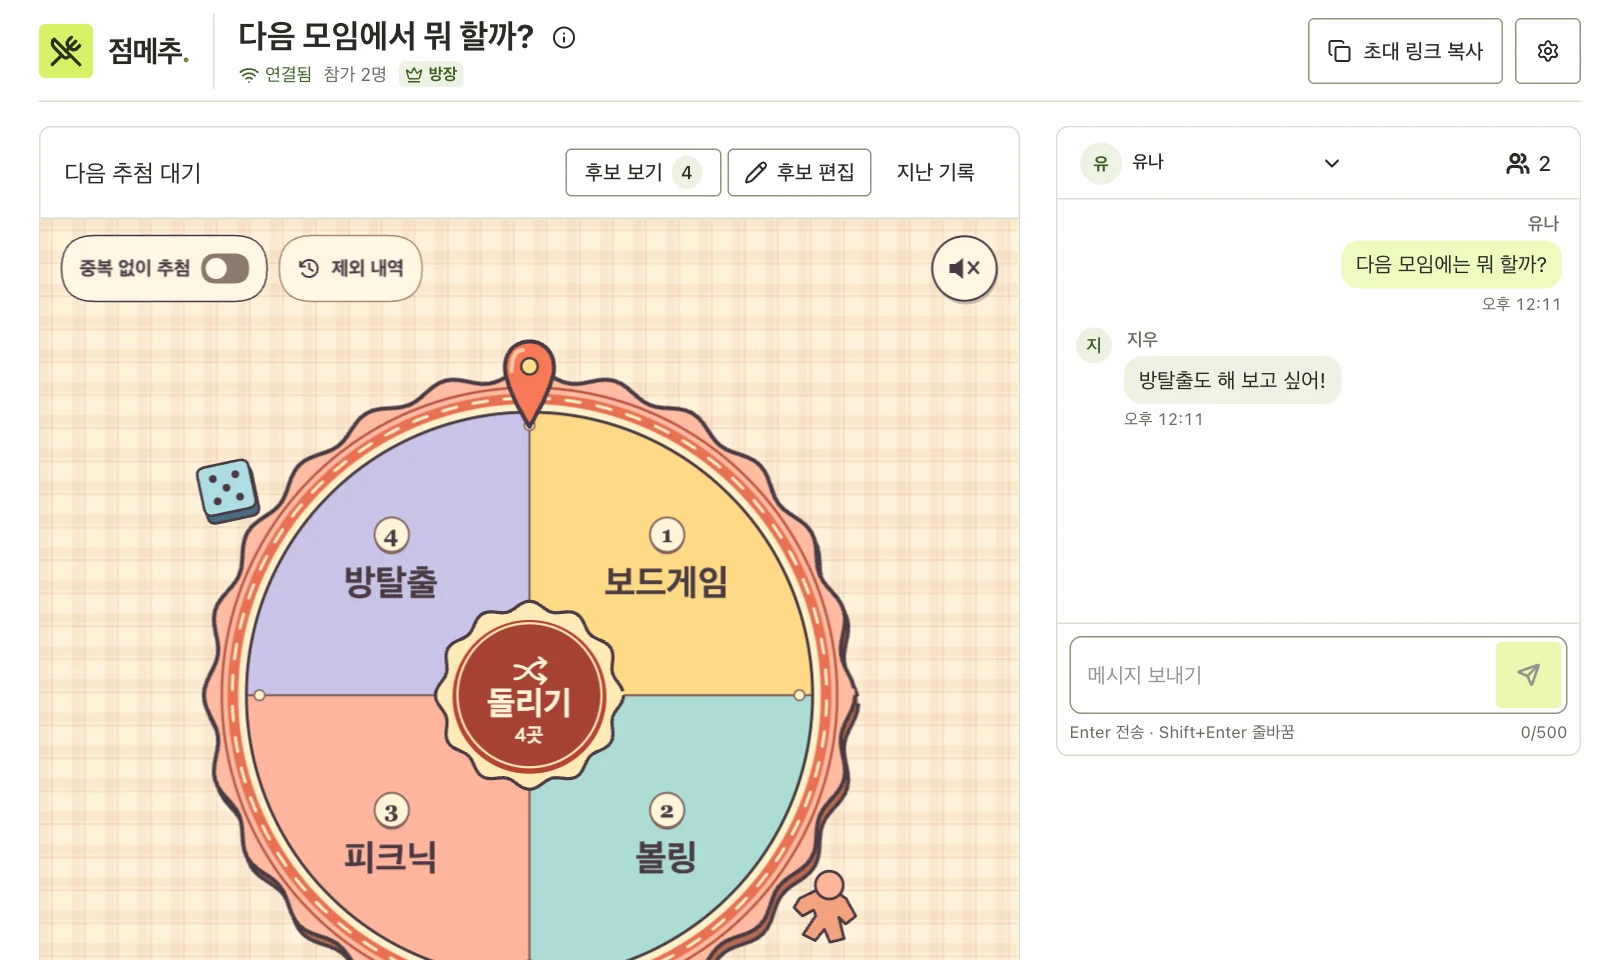
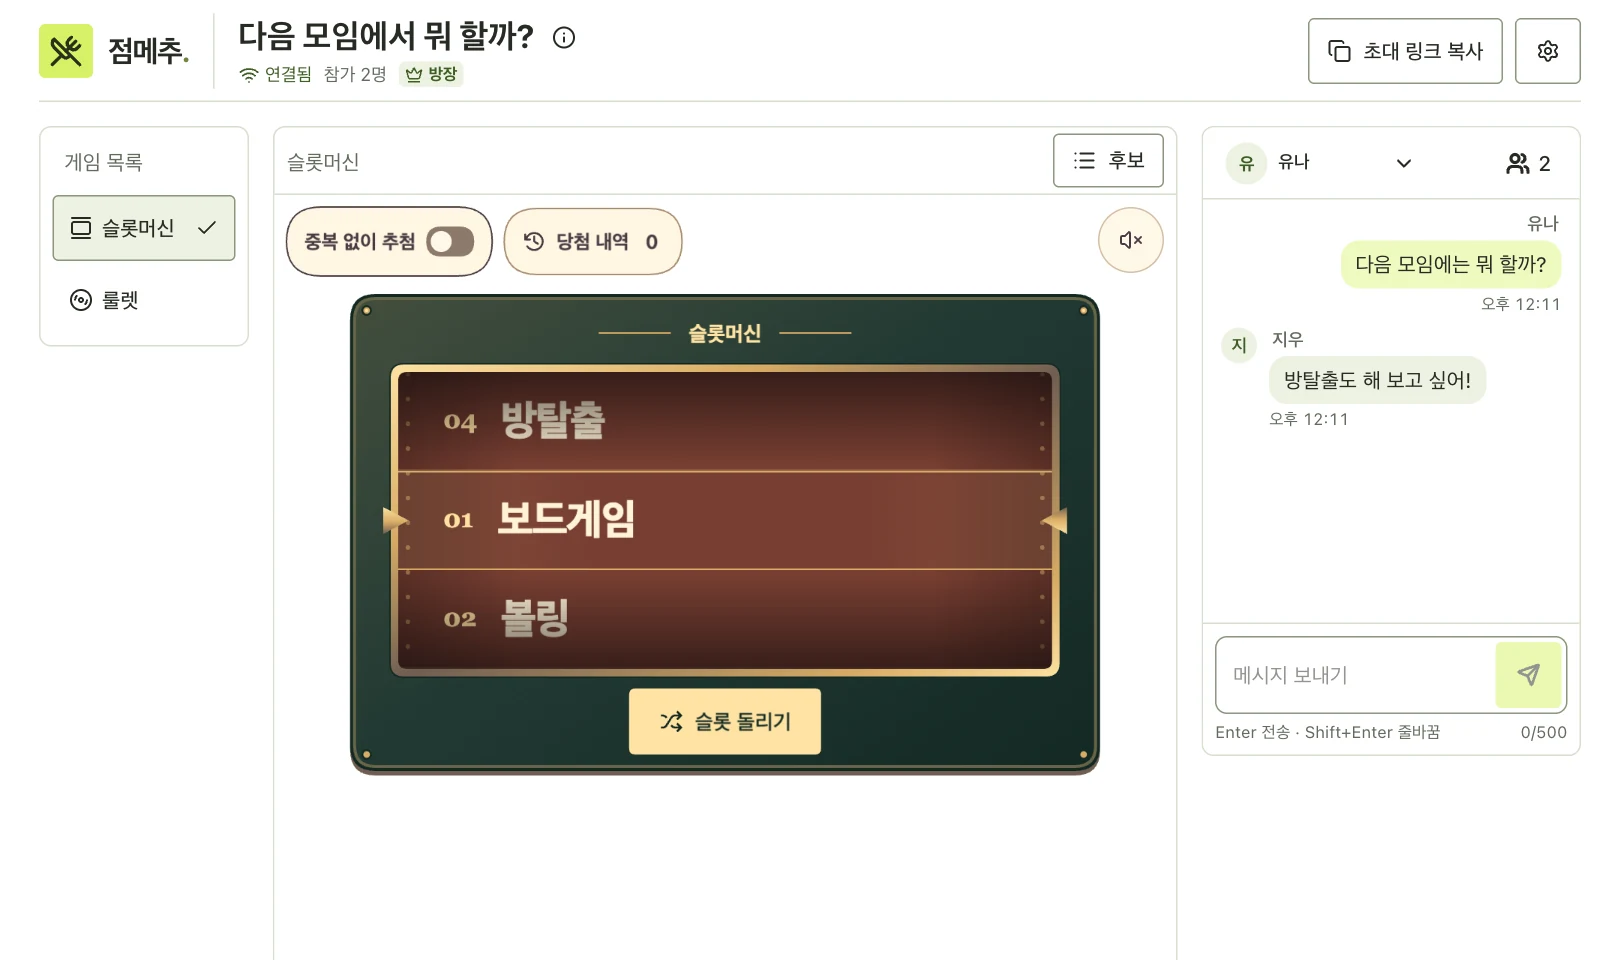
Align home previews with slot default and restore /tools switcher

diff --git a/src/components/features/RandomGenerator.tsx b/src/components/features/RandomGenerator.tsx
@@ -3,6 +3,7 @@ import {
 	ArrowRight,
 	ArrowUpRight,
 	Atom,
+	Award,
 	Check,
 	ChevronDown,
 	Copy,
@@ -14,6 +15,7 @@ import {
 	RotateCcw,
 	ShieldCheck,
 	Shuffle,
+	Ticket,
 	Trash2,
 	Wind,
 } from "lucide-react";
@@ -69,18 +71,21 @@ const modes = [
 	{
 		id: "number" as const,
 		label: "랜덤 숫자",
+		Icon: Dices,
 		description: "최소값과 최대값, 뽑을 개수를 설정하세요.",
 		title: "범위와 개수 설정",
 	},
 	{
 		id: "lotto" as const,
 		label: "로또 6/45",
+		Icon: Ticket,
 		description: "1~45에서 중복 없는 숫자 6개를 뽑습니다.",
 		title: "로또 번호 추첨",
 	},
 	{
 		id: "pension" as const,
 		label: "연금복권 720+",
+		Icon: Award,
 		description: "조와 여섯 자리 번호를 무작위로 뽑습니다.",
 		title: "연금복권 번호 추첨",
 	},
@@ -701,12 +706,29 @@ export default function RandomGenerator({
 	}
 	return (
 		<div className="random-lab">
-			<SiteHeader
-				active={mode}
-				onToolChange={changeMode}
-				toolsDisabled={busy}
-			/>
+			<SiteHeader active={mode} />
 			<main id="main-content">
+				<nav className="tool-nav" aria-label="생성 도구">
+					{modes.map((item) => {
+						const active = mode === item.id;
+						const Icon = active ? Check : item.Icon;
+						return (
+							<Button
+								key={item.id}
+								variant="plain"
+								size="auto"
+								type="button"
+								className={`tool-tab${active ? " is-active" : ""}`}
+								aria-pressed={active}
+								disabled={busy}
+								onClick={() => changeMode(item.id)}
+							>
+								<Icon size={18} aria-hidden="true" />
+								<span>{item.label}</span>
+							</Button>
+						);
+					})}
+				</nav>
 				<section className="page-heading" aria-labelledby={`${id}-title`}>
 					<h1 id={`${id}-title`}>
 						{current.label} {mode === "number" ? "생성기" : "번호 생성기"}

diff --git a/src/styles.css b/src/styles.css
@@ -174,13 +174,14 @@ a {
 	border: 1px solid var(--section-line);
 	background: var(--surface);
 	border-radius: var(--panel-radius);
-	margin-bottom: 22px;
+	margin: 16px 0 0;
 }
 .tool-tab {
 	display: flex;
 	align-items: center;
 	justify-content: center;
-	gap: 12px;
+	gap: 8px;
+	min-inline-size: 0;
 	min-height: 44px;
 	border: 0;
 	background: transparent;
@@ -189,24 +190,29 @@ a {
 	border-radius: 0;
 	font-size: 14px;
 	font-weight: 600;
+	word-break: keep-all;
 	transition:
 		background-color 120ms,
 		color 120ms;
+}
+.tool-tab:focus-visible {
+	outline-offset: -3px;
 }
 .tool-tab + .tool-tab {
 	border-inline-start: 1px solid var(--line);
 }
 .tool-tab:first-child {
-	border-start-start-radius: 1px;
-	border-end-start-radius: 1px;
+	border-start-start-radius: calc(var(--panel-radius) - 1px);
+	border-end-start-radius: calc(var(--panel-radius) - 1px);
 }
 .tool-tab:last-child {
-	border-start-end-radius: 1px;
-	border-end-end-radius: 1px;
+	border-start-end-radius: calc(var(--panel-radius) - 1px);
+	border-end-end-radius: calc(var(--panel-radius) - 1px);
 }
 .tool-tab svg {
-	width: 21px;
-	height: 21px;
+	flex-shrink: 0;
+	width: 18px;
+	height: 18px;
 }
 .tool-tab.is-active {
 	background: var(--lime);
@@ -1184,17 +1190,17 @@ a {
 	.tool-nav {
 		gap: 0;
 		padding: 0;
-		margin-bottom: 18px;
+		margin: 12px 0 0;
 	}
 	.tool-tab {
-		font-size: 14px;
-		gap: 7px;
-		min-height: 54px;
-		padding: 10px 5px;
+		font-size: 13px;
+		gap: 6px;
+		min-height: 44px;
+		padding: 8px 6px;
 	}
 	.tool-tab svg {
-		width: 18px;
-		height: 18px;
+		width: 16px;
+		height: 16px;
 	}
 	.tab-number,
 	.active-dot {
@@ -1344,9 +1350,11 @@ a {
 	.tool-tab {
 		font-size: 12px;
 		gap: 4px;
+		padding: 8px 4px;
 	}
 	.tool-tab svg {
-		width: 15px;
+		width: 14px;
+		height: 14px;
 	}
 	.controls {
 		padding: 23px 18px;

diff --git a/tests/ToolNavigation.test.tsx b/tests/ToolNavigation.test.tsx
@@ -131,4 +131,37 @@ describe("shared site and tool navigation", () => {
 		expect(generateLotteryNumbers).not.toHaveBeenCalled();
 		expect(generateRandomNumbers).not.toHaveBeenCalled();
 	});
+
+	it("lets direct /tools visitors switch between number, lotto, and pension tools in-page while keeping the site header lunch-only", () => {
+		const changed = vi.fn();
+		render(<RandomGenerator initialMode="number" onModeChange={changed} />);
+		const header = within(screen.getByRole("banner"));
+		expect(header.queryByRole("button")).toBeNull();
+		const nav = within(screen.getByRole("navigation", { name: "생성 도구" }));
+		expect(
+			nav
+				.getByRole("button", { name: "랜덤 숫자" })
+				.getAttribute("aria-pressed"),
+		).toBe("true");
+		fireEvent.click(nav.getByRole("button", { name: "로또 6/45" }));
+		expect(changed).toHaveBeenLastCalledWith("lotto");
+		expect(
+			nav
+				.getByRole("button", { name: "로또 6/45" })
+				.getAttribute("aria-pressed"),
+		).toBe("true");
+		expect(
+			screen.getByRole("heading", { name: "로또 번호 추첨" }),
+		).toBeTruthy();
+		fireEvent.click(nav.getByRole("button", { name: "연금복권 720+" }));
+		expect(changed).toHaveBeenLastCalledWith("pension");
+		expect(
+			nav
+				.getByRole("button", { name: "연금복권 720+" })
+				.getAttribute("aria-pressed"),
+		).toBe("true");
+		expect(
+			screen.getByRole("heading", { name: "연금복권 번호 추첨" }),
+		).toBeTruthy();
+	});
 });

diff --git a/scripts/home-preview/fixture.tsx b/scripts/home-preview/fixture.tsx
@@ -1,6 +1,7 @@
 import { createRoot } from "react-dom/client";
 import LunchSessionPage from "@/components/features/LunchSessionPage";
 import { homeRoomExample as example } from "@/data/homeRoomExample";
+import type { DrawView } from "@/lib/drawView";
 import { getWheelRotation } from "@/lib/lunch";
 import type { RoomCandidate, RoomSnapshot } from "@/lib/lunchRoom";
 import {
@@ -33,8 +34,10 @@ const candidates: RoomCandidate[] = [
 }));
 const winnerIndex = candidates.length - 1;
 const startedAt = Date.now() - 12000;
+const viewMode: DrawView = scene === "result" ? "wheel" : "slot-v1";
 const draw = {
 	...createPreviewDraw({ count: candidates.length }),
+	viewMode,
 	candidates,
 	winnerIndex,
 	startedAt,
@@ -44,6 +47,7 @@ const draw = {
 };
 const snapshot: RoomSnapshot = {
 	roomId: previewRoomId,
+	viewMode,
 	title: example.title,
 	listVersion: 1,
 	createdAt: startedAt - 60000,

diff --git a/tests/RandomGenerator.test.tsx b/tests/RandomGenerator.test.tsx
@@ -19,33 +19,13 @@ import {
 	getSourceDisplayName,
 } from "../src/services/randomService";
 
-// Keep mode-switch behavior covered independently of the lunch-only site menu.
 vi.mock("../src/components/layout/SiteHeader", () => ({
-	default: ({
-		onToolChange,
-		toolsDisabled,
-	}: {
-		onToolChange: (mode: "number" | "lotto" | "pension") => void;
-		toolsDisabled?: boolean;
-	}) => (
-		<nav aria-label="생성 도구">
-			{(
-				[
-					["number", "랜덤 숫자"],
-					["lotto", "로또 6/45"],
-					["pension", "연금복권 720+"],
-				] as const
-			).map(([mode, label]) => (
-				<button
-					type="button"
-					key={mode}
-					disabled={toolsDisabled}
-					onClick={() => onToolChange(mode)}
-				>
-					{label}
-				</button>
-			))}
-		</nav>
+	default: () => (
+		<header>
+			<a href="/" aria-label="점메추 홈">
+				점메추
+			</a>
+		</header>
 	),
 }));
 

diff --git a/src/components/features/LunchHome.tsx b/src/components/features/LunchHome.tsx
@@ -26,9 +26,9 @@ export default function LunchHome() {
 						<h1 id="lunch-home-title">
 							오늘 점심,
 							<br />
-							룰렛으로 정해요.
+							슬롯·룰렛으로 정해요.
 						</h1>
-						<p>원하는 후보를 모아 룰렛으로 하나 뽑아요.</p>
+						<p>원하는 후보를 모아 슬롯머신이나 룰렛으로 하나 뽑아요.</p>
 					</div>
 					<div className="lunch-home-actions">
 						<Button asChild size="default">
@@ -70,7 +70,7 @@ export default function LunchHome() {
 			</main>
 			<footer className="lunch-home-footer">
 				<span>jeommechu.dev</span>
-				<span>점심 메뉴 룰렛 · 실시간 채팅</span>
+				<span>점심 메뉴 슬롯·룰렛 · 실시간 채팅</span>
 			</footer>
 		</div>
 	);

diff --git a/src/components/features/home-showcase/HomeHowItWorks.tsx b/src/components/features/home-showcase/HomeHowItWorks.tsx
@@ -29,8 +29,9 @@ const steps = [
 	},
 	{
 		scene: "draw",
-		title: "룰렛으로 하나 뽑아요",
-		description: "확정한 후보를 룰렛으로 뽑고, 모두 같은 결과를 확인해요.",
+		title: "슬롯·룰렛으로 하나 뽑아요",
+		description:
+			"확정한 후보를 슬롯머신이나 룰렛으로 뽑고, 모두 같은 결과를 확인해요.",
 	},
 	{
 		scene: "react",

diff --git a/src/components/features/home-showcase/HomeRoomShowcase.tsx b/src/components/features/home-showcase/HomeRoomShowcase.tsx
@@ -17,7 +17,7 @@ const views = [
 		Icon: Crown,
 		wide: hostWide,
 		compact: hostCompact,
-		alt: `${[...example.activities, example.recommendation].join("·")} 룰렛과 방장용 돌리기 버튼`,
+		alt: `${[...example.activities, example.recommendation].join("·")} 슬롯머신과 게임 목록·방장용 돌리기 버튼`,
 	},
 	{
 		key: "guest",

diff --git a/tests/LunchHome.test.tsx b/tests/LunchHome.test.tsx
@@ -86,7 +86,7 @@ describe("Jeommechu lunch home", () => {
 		).toEqual([
 			"첫 추첨 후보를 준비해요",
 			"링크로 친구를 초대해요",
-			"룰렛으로 하나 뽑아요",
+			"슬롯·룰렛으로 하나 뽑아요",
 			"결과에 반응을 남겨요",
 		]);
 		expect(fetchMock).not.toHaveBeenCalled();
